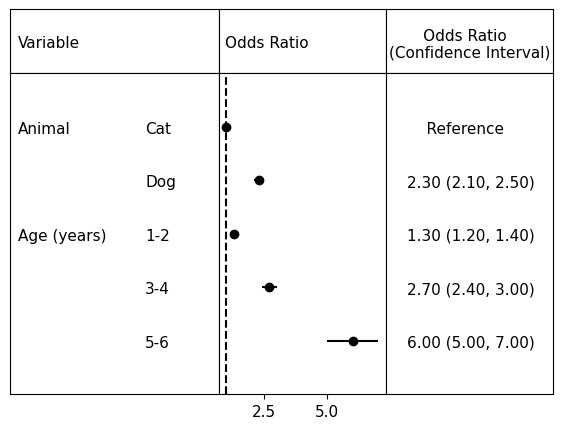
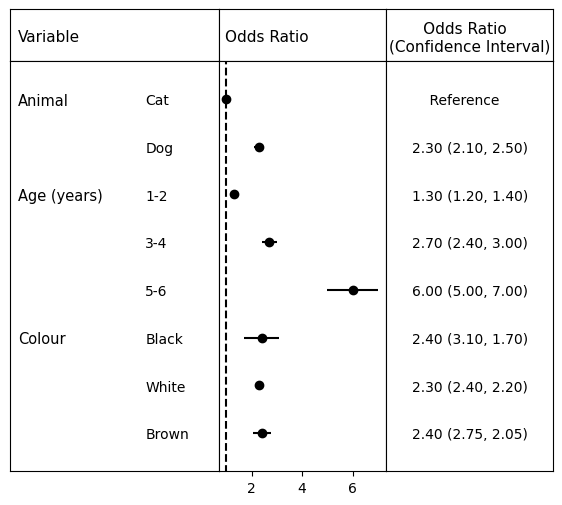
further tweaks

diff --git a/reg_vis.py b/reg_vis.py
@@ -50,8 +50,10 @@ def pack_errors(df):
 
 class reg_plot:
     def __init__(self):
-        pass
-    
+        self.font_size = 10
+        self.header_size = 11
+        self.group_size = 10.5
+        
     def load_data(self, data_path):
         extension = data_path.split(".")[-1]
         if extension == "csv":
@@ -60,9 +62,12 @@ class reg_plot:
             self.df = pd.read_excel(data_path)
     
     def plot(self):
+        # set plot size
+        plt.rc('font', size=self.font_size)
+        
         num_items = len(self.df['Odds Ratio'])
         
-        self.fig = plt.figure(figsize = (7, num_items),)
+        self.fig = plt.figure(figsize = (7, num_items-2),)
         
         
         gs = GridSpec(num_items*100 + 100, 1300)
@@ -75,7 +80,7 @@ class reg_plot:
         ax3 = plt.subplot(gs[100:, 900:])
         
         ticks = np.arange(1, num_items+1)
-        
+        ylims = [1-0.1*num_items, num_items+0.1*num_items]
         
         
         ## Headers ##
@@ -89,6 +94,8 @@ class reg_plot:
             head.set_yticks([0.5])
             head.set_yticklabels([header_labels[i]])
             head.tick_params(right = False, left = False)
+            head.tick_params(axis='both', which='major', 
+                             labelsize=self.header_size)
             # offset y ticks
             offset = ScaledTranslation(header_offset[i], 0, self.fig.dpi_scale_trans)
             for label in head.yaxis.get_majorticklabels():
@@ -103,8 +110,10 @@ class reg_plot:
         ax1.set_yticks(ticks)
         ax1.set_yticklabels(group_names[::-1])
         ax1.set_xticks([])
-        ax1.set_ylim(1-0.2*num_items, num_items+0.2*num_items)
+        ax1.set_ylim(ylims)
         ax1.set_xlim(0, 1)
+        ax1.tick_params(axis='both', which='major', 
+                             labelsize=self.group_size)
         
         # offset y ticks
         offset_ax1 = ScaledTranslation(-2.1, 0, self.fig.dpi_scale_trans)
@@ -121,7 +130,7 @@ class reg_plot:
         ax2.yaxis.tick_right()
         # plot reference line
         ax2.plot([1, 1], [1-0.2*num_items, num_items+0.2*num_items], "k--")
-        ax2.set_ylim(1-0.2*num_items, num_items+0.2*num_items)
+        ax2.set_ylim(ylims)
         #ax2.set_yticks([])
         ax2.set_yticks(ticks)
         ax2.set_yticklabels(self.df["Variable"].values[::-1])
@@ -140,12 +149,12 @@ class reg_plot:
         ax3.set_xticks([])
         ax3.set_yticks(ticks)
         ax3.set_yticklabels(odds_values[::-1])
-        ax3.set_ylim(1-0.2*num_items, num_items+0.2*num_items)
+        ax3.set_ylim(ylims)
         
         ax3.tick_params(right = False, left = False)
         
         # offset y ticks
-        offset_ax3 = ScaledTranslation(-1.55, 0, self.fig.dpi_scale_trans)
+        offset_ax3 = ScaledTranslation(-1.50, 0, self.fig.dpi_scale_trans)
         for label in ax3.yaxis.get_majorticklabels():
             label.set_transform(label.get_transform() + offset_ax3)
             

diff --git a/example/example_code.py b/example/example_code.py
@@ -10,4 +10,4 @@ import reg_vis
 reg_vis = reg_vis.reg_plot()
 reg_vis.load_data("example_data.xlsx")
 reg_vis.plot()
-reg_vis.save_plot("example.png")
+reg_vis.save_plot("example_plot.png")
